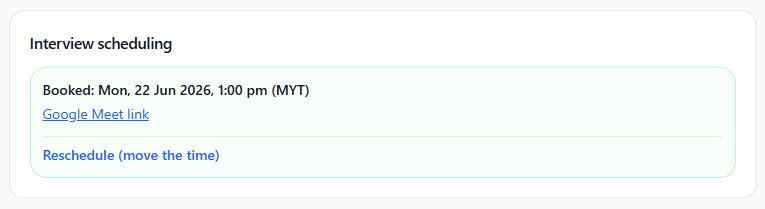
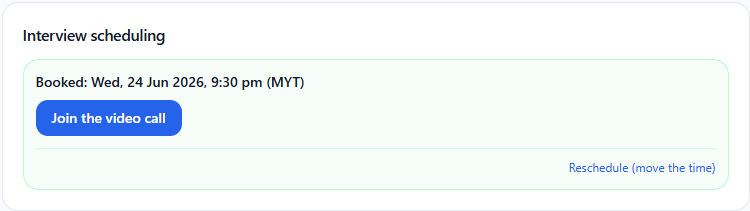
docs(guide): scheduling step says 'three' (was 'two or three') + refresh booked screenshot/caption to the Join-the-video-call button
The picker requires exactly three times, not 'two or three'/'up to three'.
Booked screenshot retaken to show the new Join-the-video-call button;
caption + alt text updated to match.

diff --git a/halatuju-web/src/app/admin/guide/page.tsx b/halatuju-web/src/app/admin/guide/page.tsx
@@ -112,7 +112,7 @@ const STEPS: { n?: number; title: string; body: React.ReactNode; img?: string; a
   {
     title: 'Scheduling the interview',
     body: (
-      <>On the applicant&rsquo;s page, use <strong>Interview scheduling</strong> to <strong>propose two or three
+      <>On the applicant&rsquo;s page, use <strong>Interview scheduling</strong> to <strong>propose three
       times</strong> that suit you. The student picks one from their side, and HalaTuju automatically creates a
       <strong> Google Meet</strong> link and sends both of you a confirmation, plus reminders the day before and
       an hour before. You&rsquo;ll see the booked time and the Meet link once they&rsquo;ve chosen. If the student
@@ -122,8 +122,8 @@ const STEPS: { n?: number; title: string; body: React.ReactNode; img?: string; a
           <figure className="m-0">
             <img src="/reviewer-guide/scheduling-1-propose.png" alt="Choosing interview times to propose on the calendar"
               className="block h-auto max-w-full rounded-lg border border-gray-200 shadow-sm" loading="lazy" />
-            <figcaption className="mt-1 text-xs text-gray-500"><strong>1. Propose</strong> — pick a day, tick the
-            times that suit you (up to three), then <em>Propose times</em>.</figcaption>
+            <figcaption className="mt-1 text-xs text-gray-500"><strong>1. Propose</strong> — pick a day, tick
+            three times that suit you, then <em>Propose times</em>.</figcaption>
           </figure>
           <figure className="m-0">
             <img src="/reviewer-guide/scheduling-2-proposed.png" alt="The proposed times, waiting for the student to pick one"
@@ -132,10 +132,10 @@ const STEPS: { n?: number; title: string; body: React.ReactNode; img?: string; a
             the student picks one. Use <em>Propose alternative times</em> if you need to change them.</figcaption>
           </figure>
           <figure className="m-0">
-            <img src="/reviewer-guide/scheduling-3-booked.png" alt="The booked interview time with the Google Meet link"
+            <img src="/reviewer-guide/scheduling-3-booked.png" alt="The booked interview time with a Join the video call button"
               className="block h-auto max-w-full rounded-lg border border-gray-200 shadow-sm" loading="lazy" />
             <figcaption className="mt-1 text-xs text-gray-500"><strong>3. Booked</strong> — once they choose, you see
-            the time and the <em>Google Meet</em> link. <em>Reschedule</em> moves it to a new time.</figcaption>
+            the time and a <em>Join the video call</em> button. <em>Reschedule</em> moves it to a new time.</figcaption>
           </figure>
         </div></>
     ),